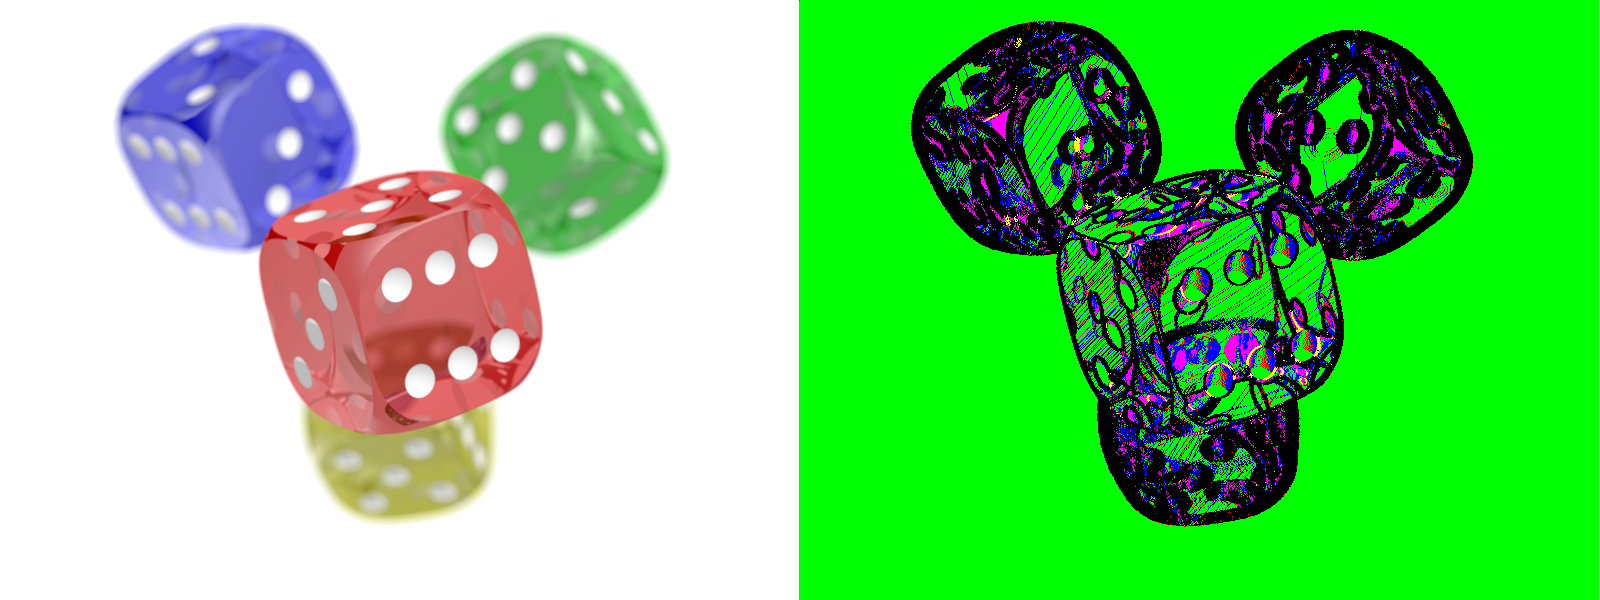
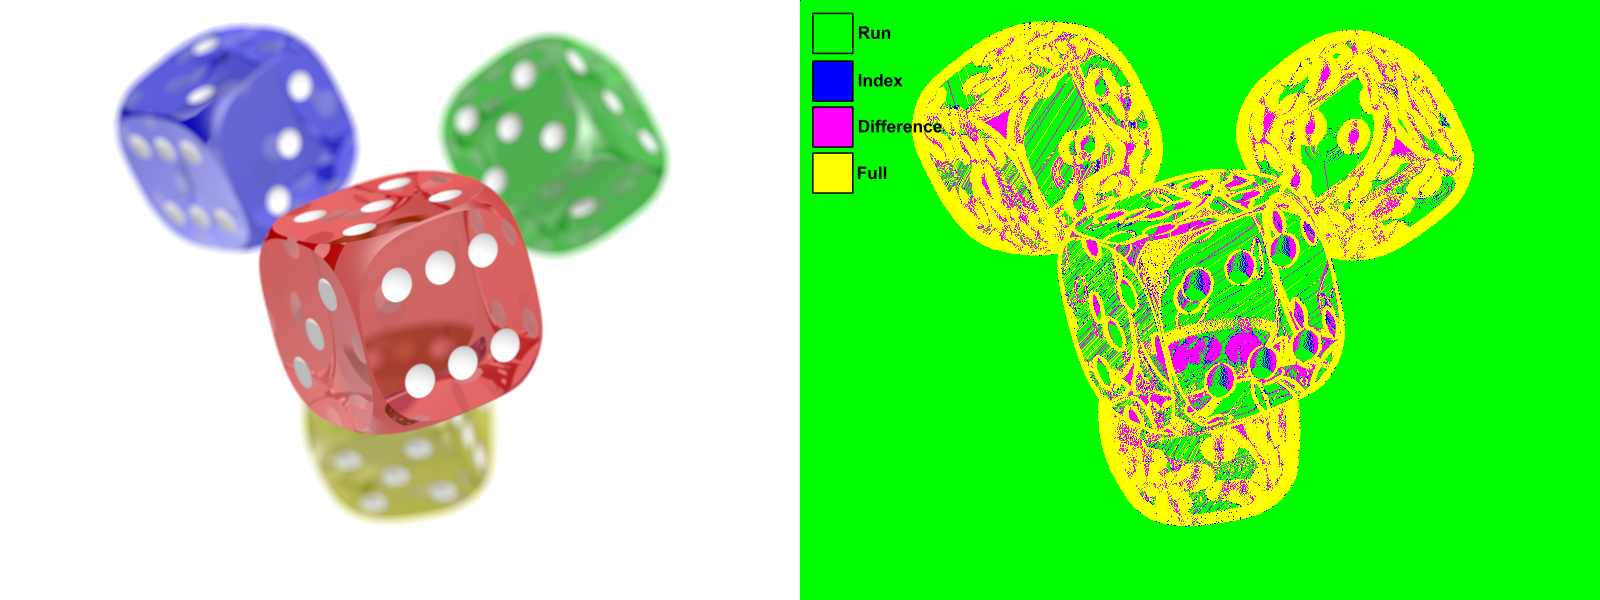
blog: qoi, continue writing

Changed region(s): [[0.5, 0.03, 0.9375, 0.9], [0.5, 0.0, 0.5312, 0.03]]

diff --git a/blog/qoi_format.html b/blog/qoi_format.html
@@ -25,7 +25,7 @@
         </header>
         <hr>
 <h1>QOI image format</h1>
-<p>In this article we will show how to implement an image encoder and decoder for the <em>QOI</em> (Quite OK Image) format, a relatively new image format created by the game developer <em>Dominic Szablewski</em> that has generated a lot of interest recently in the computer graphics community due to its simplicity.</p>
+<p>In this article we will show how to implement an image encoder and decoder for the <em>QOI (Quite OK Image)</em> format, a relatively new image format created by the game developer Dominic Szablewski that has generated a lot of interest recently in the computer graphics community due to its simplicity.</p>
 <p>QOI is a very simple lossless image format that is easy to understand and fast to encode, yet compresses images to a comparable size as the much more complex <em>PNG</em> image format.
 Thus it sits between <em>BMP</em> (uncompressed) and <em>PNG</em> (compressed) in terms of compression ratio.
 The author claims that QOI is 3-4x faster than PNG to decode and 20-50x faster to encode!</p>
@@ -42,7 +42,7 @@ This is achieved by taking advantage of <em>redundancies</em> in the data.
 We find <em>repetitive patterns</em> and replace them by an equivalent compressed representation.
 Files can only be compressed if they have a lot of redundancy, there is no magic here.
 In practice raw data is usually not encoded the most efficient way and is compressible.</p>
-<p>One of the simplest technique to do lossless data compression is <em>RLE</em> (Run Length Encoding).
+<p>One of the simplest technique to do lossless data compression is <em>RLE (Run Length Encoding)</em>.
 Say we have the following data:</p>
 <div class="codehilite"><table class="codehilitetable"><tr><td class="linenos"><div class="linenodiv"><pre><span class="normal">1</span></pre></div></td><td class="code"><div><pre><span></span><code>2 5 5 5 5 5 5 5 3 3
 </code></pre></div></td></tr></table></div>
@@ -67,18 +67,15 @@ Images are made of pixels with 3 color channels (R,G,B) so instead of doing RLE 
 <li>Difference</li>
 <li>Full (uncompressed)</li>
 </ol>
-<p>Those methods were choosen to tradeoff quality with complexity after surely many iterations while testing with all kind of images.</p>
-<p>We can visualize which technique is used for each pixel of an image.
-Here we check the result on a real life picture:
-<img src="../imgs/blog/qoi_kodim23_viz.png" style="height: 230px;" alt="">
-Notice how most of the image is compressed using the "difference" and "index" method.
-It is interesting to realize that the sharp edges of the image cannot be compressed and have to be stored using the "full" method.
-The "run" method is barely used but it is not really surprising since a picture of a real life scene usually does not have big area of the exact same color, life is full of subtle variations and imperfections.</p>
+<p>Those methods were choosen to tradeoff quality with complexity after surely many iterations while testing with all kind of images.
+Before explaining each method in detail, we can visualize which technique is used for each pixel of a real life picture:
+<img alt="QOI compression on Kodim23" src="../imgs/blog/qoi_kodim23_viz.png" />
+Notice how most of the image is compressed using the <em>difference</em> (in purple) and <em>index</em> method (in blue).
+It is interesting to realize that the sharp edges of the image cannot be compressed and have to be stored using the <em>full</em> method (in yellow).
+The <em>run</em> method (in green) is barely used but it is not really surprising since a picture of a real life scene usually does not have big area of the exact same color, life is full of subtle variations and imperfections.</p>
 <p>Images with graphics like logo and text do exhibit large zones of the same color and QOI is also very efficient at compressing them.
-On the image below we can see that it is mostly compressed using RLE like it should:
-<img src="../imgs/blog/qoi_dice_viz.png" style="height: 255px;" alt=""></p>
-<p>TODO: color legend
-merge RGB+RGBA yellow?</p>
+On the image below we can see that it is mostly compressed using <em>run</em> (in green) like it should:
+<img alt="QOI compression on Dice" src="../imgs/blog/qoi_dice_viz.png" /></p>
 <h3>1. Run</h3>
 <p>We have already seen the first method in the section above on data compression however the specific implementation of RLE used in QOI is a bit different.
 When a run is encountered, the previous pixel decoded is repeated a specific number of times, its <em>run-length</em>.
@@ -89,7 +86,7 @@ This means only the range of [1,62] is a valid run-length.</p>
 QOI keeps a buffer of 64 pixels that have been previously seen at any time, those are not necessarily the last pixels seen up to that point.
 Since the buffer size is 64, we only need 6-bit to store the index.</p>
 <p>When encoding, we need to find out if the pixel is in the buffer.
-Using an array/queue here would make the search slow O(N) and so a hashmap O(1) is used instead.
+Using an array/queue here would make the search slow <strong>O(N)</strong> and so a hashmap <strong>O(1)</strong> is used instead.
 Each time a new pixel is decoded it is added to this buffer by using the hash function:</p>
 <div class="codehilite"><table class="codehilitetable"><tr><td class="linenos"><div class="linenodiv"><pre><span class="normal">1</span>
 <span class="normal">2</span>
@@ -98,7 +95,7 @@ Each time a new pixel is decoded it is added to this buffer by using the hash fu
 <span class="n">prev_pixels</span><span class="p">[</span><span class="n">index</span><span class="p">]</span><span class="w"> </span><span class="o">=</span><span class="w"> </span><span class="n">last_pixel</span><span class="p">;</span>
 </code></pre></div></td></tr></table></div>
 
-<p>The prime numbers series 3,5,7,11 ensures a good uniformity and the % 64 wraps the index to fit into the array.</p>
+<p>The prime numbers series <strong>3,5,7,11</strong> ensures a good uniformity and the <strong>% 64</strong> wraps the index to fit into the array.</p>
 <p>Notice how this buffer acts like a <em>cache</em> of pixels previously seen.
 Usually the image will be much bigger than the buffer so we cannot keep all the previous pixels decoded, some pixels will need to be replaced.
 When a <em>hash collision</em> occurs a pixel gets replaced in the cache.</p>
@@ -132,7 +129,7 @@ its called "luma" but not really YUV,maybe just because looks similar</p>
 <p>It is important to notice that the difference method does not encode the alpha channel (A).
 therefore this method can only be used if the A channel did not change from the previous pixel.</p>
 <h3>4. Full</h3>
-<p>The last method is used when we are out of options and none of the previous ones worked or resulted in compression. In that case we just send the raw pixel in the order R,G,B,A (or RGB), one byte per color channel.</p>
+<p>The last method is used when we are out of options and none of the previous ones worked or resulted in compression. In that case we just send the raw pixel in the order R,G,B,A (or R,G,B), one byte per color channel.</p>
 <p>One thing to notice is that none of those methods take much advantage of the specific properties of images.
 To keep things simple, QOI treats the image as a single 1D stream of pixels and not a 2D grid like PNG does.
 The compression method is thus not able to detect the 2D spatial redundancies that are common in images. This is probably one of the reason why PNG is more efficient.</p>
@@ -193,7 +190,10 @@ A chunk can have up to 4 bytes of data bytes following its tag.</p>
 <p><img alt="QOI chunk format" src="../imgs/blog/qoi_chunk.svg" /></p>
 <p>There are 6 types of chunks corresponding to the different compression methods:</p>
 <p><img alt="QOI tags format" src="../imgs/blog/qoi_tags.svg" /></p>
-<p>Conveniently, all chunks are byte aligned which allow us to treat it as a single <em>byte stream</em>.
+<p>On the figure, from left to right are the first to last byte of each chunk, all fields are stored in the <em>least significant bit</em> first <em>(LSB)</em>.
+The <strong>index</strong> is the 6-bit index value into the previous pixels buffer and <strong>run</strong> is the run length.
+<strong>dr</strong>, <strong>dg</strong>, <strong>db</strong> are the difference from the previous pixel for the R, G, B channels respectively, while <strong>r</strong>, <strong>g</strong>, <strong>b</strong>, <strong>a</strong> are simply the raw pixel value for each color channels.</p>
+<p>Conveniently, all chunks are <em>byte aligned</em> which allow us to treat it as a single <em>byte stream</em>.
 The stream should end when all the pixels have been decoded but the end of the stream 
 is also marked with the following sequence of 8 bytes:</p>
 <div class="codehilite"><table class="codehilitetable"><tr><td class="linenos"><div class="linenodiv"><pre><span class="normal">1</span></pre></div></td><td class="code"><div><pre><span></span><code>0x00, 0x00, 0x00, 0x00, 0x00, 0x00, 0x00, 0x01
@@ -777,11 +777,11 @@ QOI can be used in place of PNG for faster compression and decompression at the 
 <p>In this article <strong>we have omitted proper errors handling</strong> to keep the code short, please see the full source code available on <a href="https://github.com/kevenv/image_viewer">GitHub</a> for more details.</p>
 <h2>References</h2>
 <ul>
-<li><a href="https://qoiformat.org/">https://qoiformat.org/</a> : Specification.</li>
-<li><a href="https://phoboslab.org/log/2021/11/qoi-fast-lossless-image-compression">https://phoboslab.org/log/2021/11/qoi-fast-lossless-image-compression</a> : Blog post by inventor.</li>
+<li><a href="https://qoiformat.org/">https://qoiformat.org/</a></li>
+<li><a href="https://phoboslab.org/log/2021/11/qoi-fast-lossless-image-compression">https://phoboslab.org/log/2021/11/qoi-fast-lossless-image-compression</a></li>
 <li><a href="https://en.wikipedia.org/wiki/QOI_(image_format)">https://en.wikipedia.org/wiki/QOI_(image_format)</a></li>
 <li><a href="https://en.wikipedia.org/wiki/Run-length_encoding">https://en.wikipedia.org/wiki/Run-length_encoding</a></li>
-<li><a href="https://www.youtube.com/watch?v=EFUYNoFRHQI&amp;t=1411s">https://www.youtube.com/watch?v=EFUYNoFRHQI&amp;t=1411s</a> : Nice visual explanation.</li>
+<li><a href="https://www.youtube.com/watch?v=EFUYNoFRHQI&amp;t=1411s">https://www.youtube.com/watch?v=EFUYNoFRHQI&amp;t=1411s</a></li>
 </ul>
         <hr>
         <footer>

diff --git a/templates/blog/qoi_format.md b/templates/blog/qoi_format.md
@@ -1,6 +1,6 @@
 # QOI image format
 
-In this article we will show how to implement an image encoder and decoder for the _QOI_ (Quite OK Image) format, a relatively new image format created by the game developer _Dominic Szablewski_ that has generated a lot of interest recently in the computer graphics community due to its simplicity.
+In this article we will show how to implement an image encoder and decoder for the _QOI (Quite OK Image)_ format, a relatively new image format created by the game developer Dominic Szablewski that has generated a lot of interest recently in the computer graphics community due to its simplicity.
 
 QOI is a very simple lossless image format that is easy to understand and fast to encode, yet compresses images to a comparable size as the much more complex _PNG_ image format.
 Thus it sits between _BMP_ (uncompressed) and _PNG_ (compressed) in terms of compression ratio.
@@ -23,7 +23,7 @@ We find _repetitive patterns_ and replace them by an equivalent compressed repre
 Files can only be compressed if they have a lot of redundancy, there is no magic here.
 In practice raw data is usually not encoded the most efficient way and is compressible.
 
-One of the simplest technique to do lossless data compression is _RLE_ (Run Length Encoding).
+One of the simplest technique to do lossless data compression is _RLE (Run Length Encoding)_.
 Say we have the following data:
 ```
 2 5 5 5 5 5 5 5 3 3
@@ -51,20 +51,15 @@ The QOI compression algorithm essentially chooses between 4 techniques to compre
 4. Full (uncompressed)
 
 Those methods were choosen to tradeoff quality with complexity after surely many iterations while testing with all kind of images.
-
-We can visualize which technique is used for each pixel of an image.
-Here we check the result on a real life picture:
-<img src="{{rootImages}}blog/qoi_kodim23_viz.png" style="height: 230px;" alt="">
-Notice how most of the image is compressed using the "difference" and "index" method.
-It is interesting to realize that the sharp edges of the image cannot be compressed and have to be stored using the "full" method.
-The "run" method is barely used but it is not really surprising since a picture of a real life scene usually does not have big area of the exact same color, life is full of subtle variations and imperfections.
+Before explaining each method in detail, we can visualize which technique is used for each pixel of a real life picture:
+![QOI compression on Kodim23]({{rootImages}}blog/qoi_kodim23_viz.png)
+Notice how most of the image is compressed using the _difference_ (in purple) and _index_ method (in blue).
+It is interesting to realize that the sharp edges of the image cannot be compressed and have to be stored using the _full_ method (in yellow).
+The _run_ method (in green) is barely used but it is not really surprising since a picture of a real life scene usually does not have big area of the exact same color, life is full of subtle variations and imperfections.
 
 Images with graphics like logo and text do exhibit large zones of the same color and QOI is also very efficient at compressing them.
-On the image below we can see that it is mostly compressed using RLE like it should:
-<img src="{{rootImages}}blog/qoi_dice_viz.png" style="height: 255px;" alt="">
-
-TODO: color legend
-merge RGB+RGBA yellow?
+On the image below we can see that it is mostly compressed using _run_ (in green) like it should:
+![QOI compression on Dice]({{rootImages}}blog/qoi_dice_viz.png)
 
 ### 1. Run
 We have already seen the first method in the section above on data compression however the specific implementation of RLE used in QOI is a bit different.
@@ -78,14 +73,14 @@ QOI keeps a buffer of 64 pixels that have been previously seen at any time, thos
 Since the buffer size is 64, we only need 6-bit to store the index.
 
 When encoding, we need to find out if the pixel is in the buffer.
-Using an array/queue here would make the search slow O(N) and so a hashmap O(1) is used instead.
+Using an array/queue here would make the search slow **O(N)** and so a hashmap **O(1)** is used instead.
 Each time a new pixel is decoded it is added to this buffer by using the hash function:
 ```C
 u32 hash = last_pixel.r * 3 + last_pixel.g * 5 + last_pixel.b * 7 + last_pixel.a * 11;
 u8 index = (u8)(hash % 64);
 prev_pixels[index] = last_pixel;
 ```
-The prime numbers series 3,5,7,11 ensures a good uniformity and the % 64 wraps the index to fit into the array.
+The prime numbers series **3,5,7,11** ensures a good uniformity and the **% 64** wraps the index to fit into the array.
 
 Notice how this buffer acts like a _cache_ of pixels previously seen.
 Usually the image will be much bigger than the buffer so we cannot keep all the previous pixels decoded, some pixels will need to be replaced.
@@ -135,7 +130,7 @@ It is important to notice that the difference method does not encode the alpha c
 therefore this method can only be used if the A channel did not change from the previous pixel.
 
 ### 4. Full
-The last method is used when we are out of options and none of the previous ones worked or resulted in compression. In that case we just send the raw pixel in the order R,G,B,A (or RGB), one byte per color channel.
+The last method is used when we are out of options and none of the previous ones worked or resulted in compression. In that case we just send the raw pixel in the order R,G,B,A (or R,G,B), one byte per color channel.
 
 One thing to notice is that none of those methods take much advantage of the specific properties of images.
 To keep things simple, QOI treats the image as a single 1D stream of pixels and not a 2D grid like PNG does.
@@ -193,7 +188,11 @@ There are 6 types of chunks corresponding to the different compression methods:
 
 ![QOI tags format]({{rootImages}}blog/qoi_tags.svg)
 
-Conveniently, all chunks are byte aligned which allow us to treat it as a single _byte stream_.
+On the figure, from left to right are the first to last byte of each chunk, all fields are stored in the _least significant bit_ first _(LSB)_.
+The **index** is the 6-bit index value into the previous pixels buffer and **run** is the run length.
+**dr**, **dg**, **db** are the difference from the previous pixel for the R, G, B channels respectively, while **r**, **g**, **b**, **a** are simply the raw pixel value for each color channels.
+
+Conveniently, all chunks are _byte aligned_ which allow us to treat it as a single _byte stream_.
 The stream should end when all the pixels have been decoded but the end of the stream 
 is also marked with the following sequence of 8 bytes:
 ```
@@ -532,8 +531,8 @@ QOI can be used in place of PNG for faster compression and decompression at the 
 In this article **we have omitted proper errors handling** to keep the code short, please see the full source code available on [GitHub](https://github.com/kevenv/image_viewer) for more details.
 
 ## References
-- <https://qoiformat.org/> : Specification.
-- <https://phoboslab.org/log/2021/11/qoi-fast-lossless-image-compression> : Blog post by inventor.
+- <https://qoiformat.org/>
+- <https://phoboslab.org/log/2021/11/qoi-fast-lossless-image-compression>
 - <https://en.wikipedia.org/wiki/QOI_(image_format)>
 - <https://en.wikipedia.org/wiki/Run-length_encoding>
-- <https://www.youtube.com/watch?v=EFUYNoFRHQI&t=1411s> : Nice visual explanation.
+- <https://www.youtube.com/watch?v=EFUYNoFRHQI&t=1411s>
